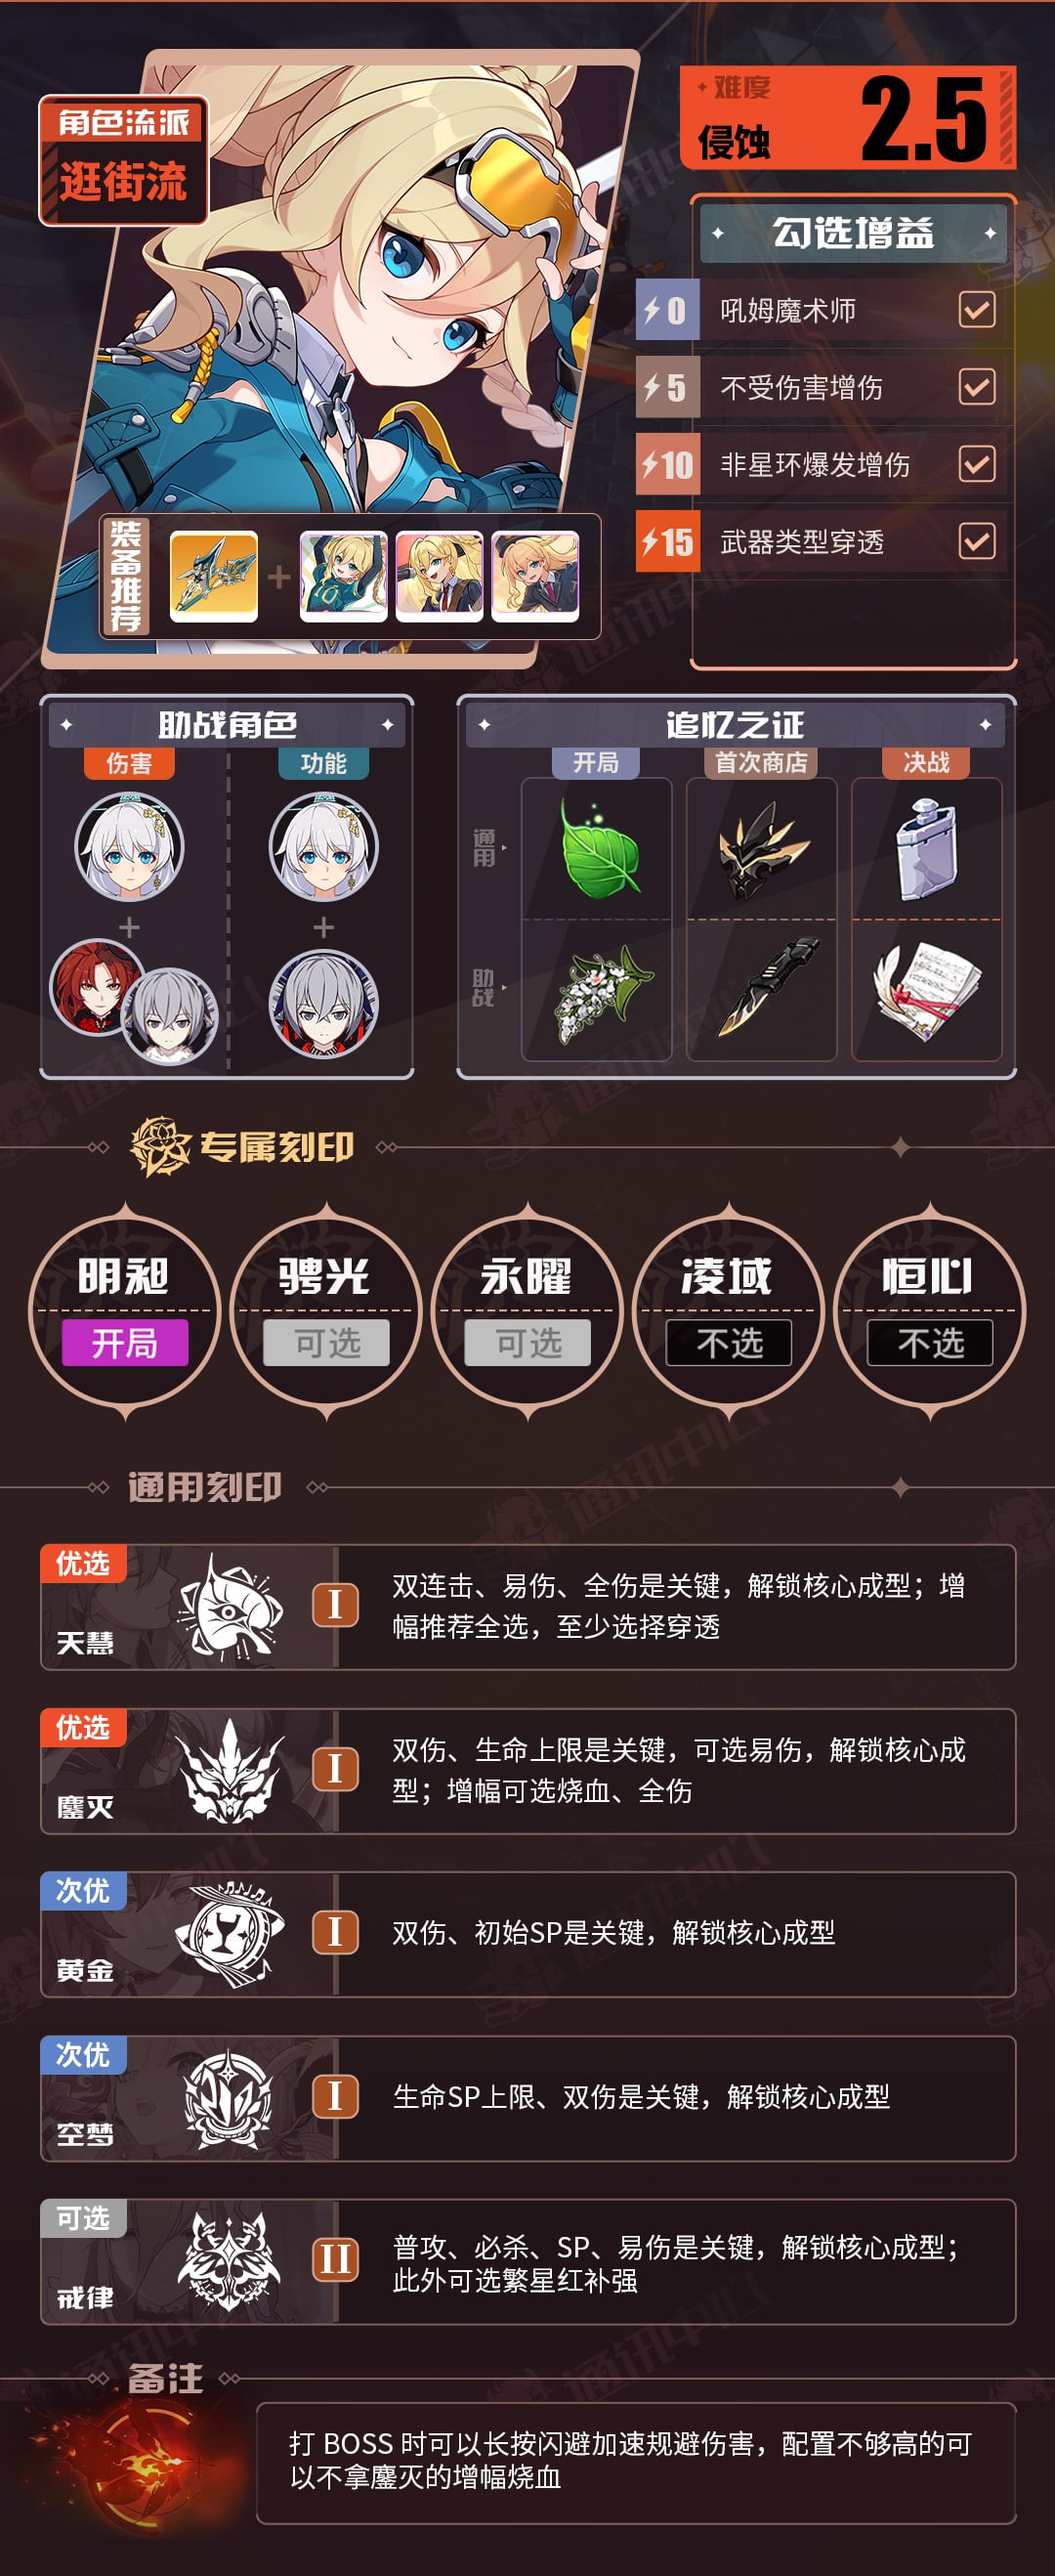
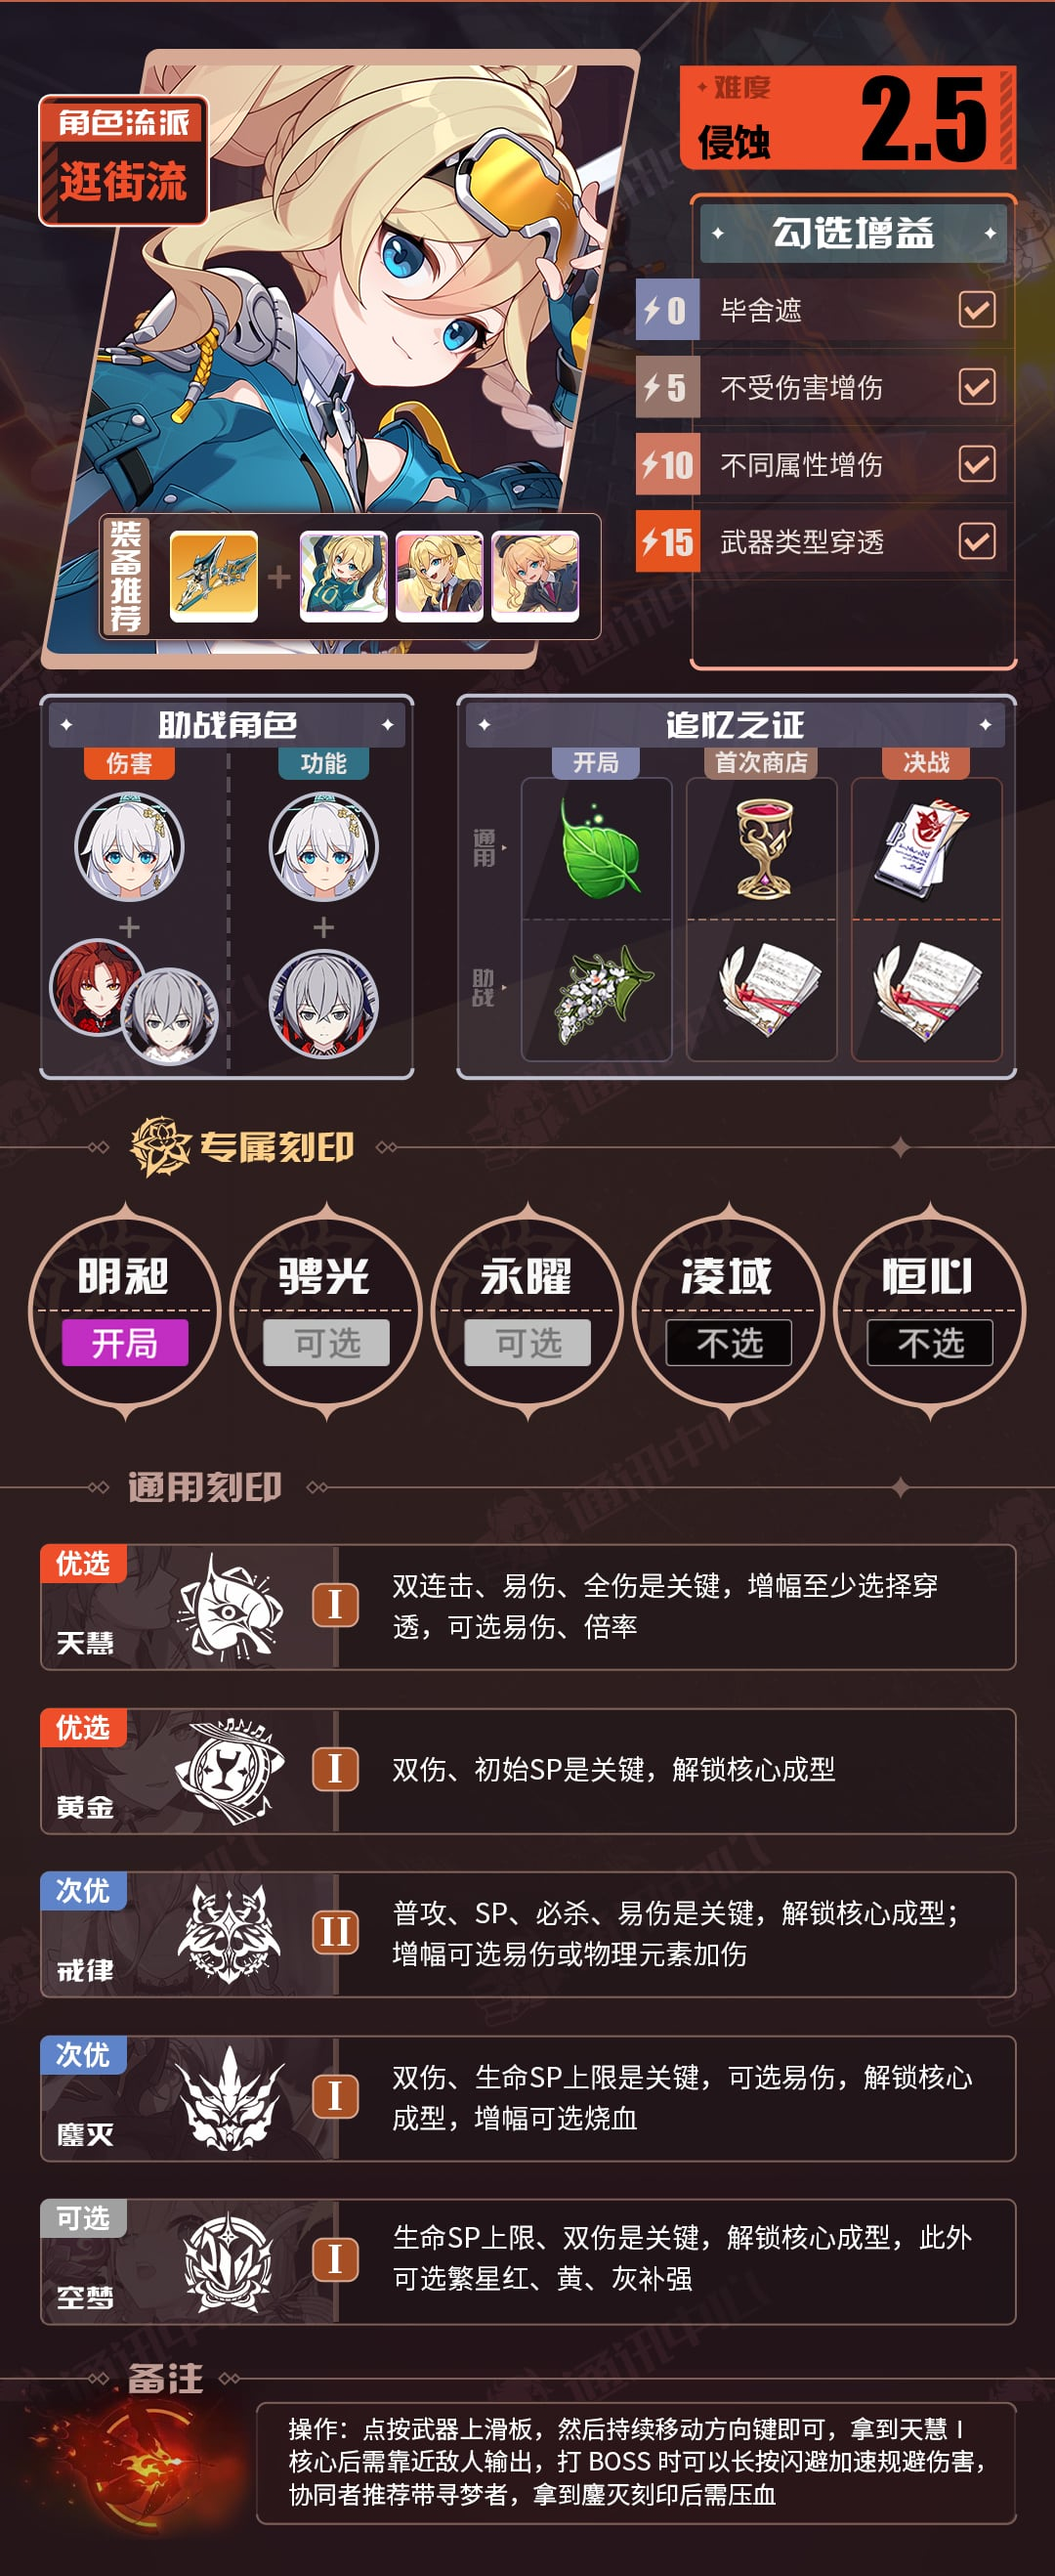
8.2v1

diff --git a/README.md b/README.md
@@ -78,6 +78,8 @@
 | Flamescion.jpg | 薪炎之律者 |
 | Starchasm.jpg | 魇夜星渊 |
 | Golden.jpg | 伊甸 |
+| PeregrineSword.jpg | 一客逍游 |
+| PeregrineSword_AstralRing.jpg | 一客逍游星环流 |
 | ShadowKnight.jpg | 影骑士 · 月轮 |
 | Dreamweaver.jpg | 羽兔 |
 | Dreamweaver_Weapon.jpg | 羽兔武器流 |
